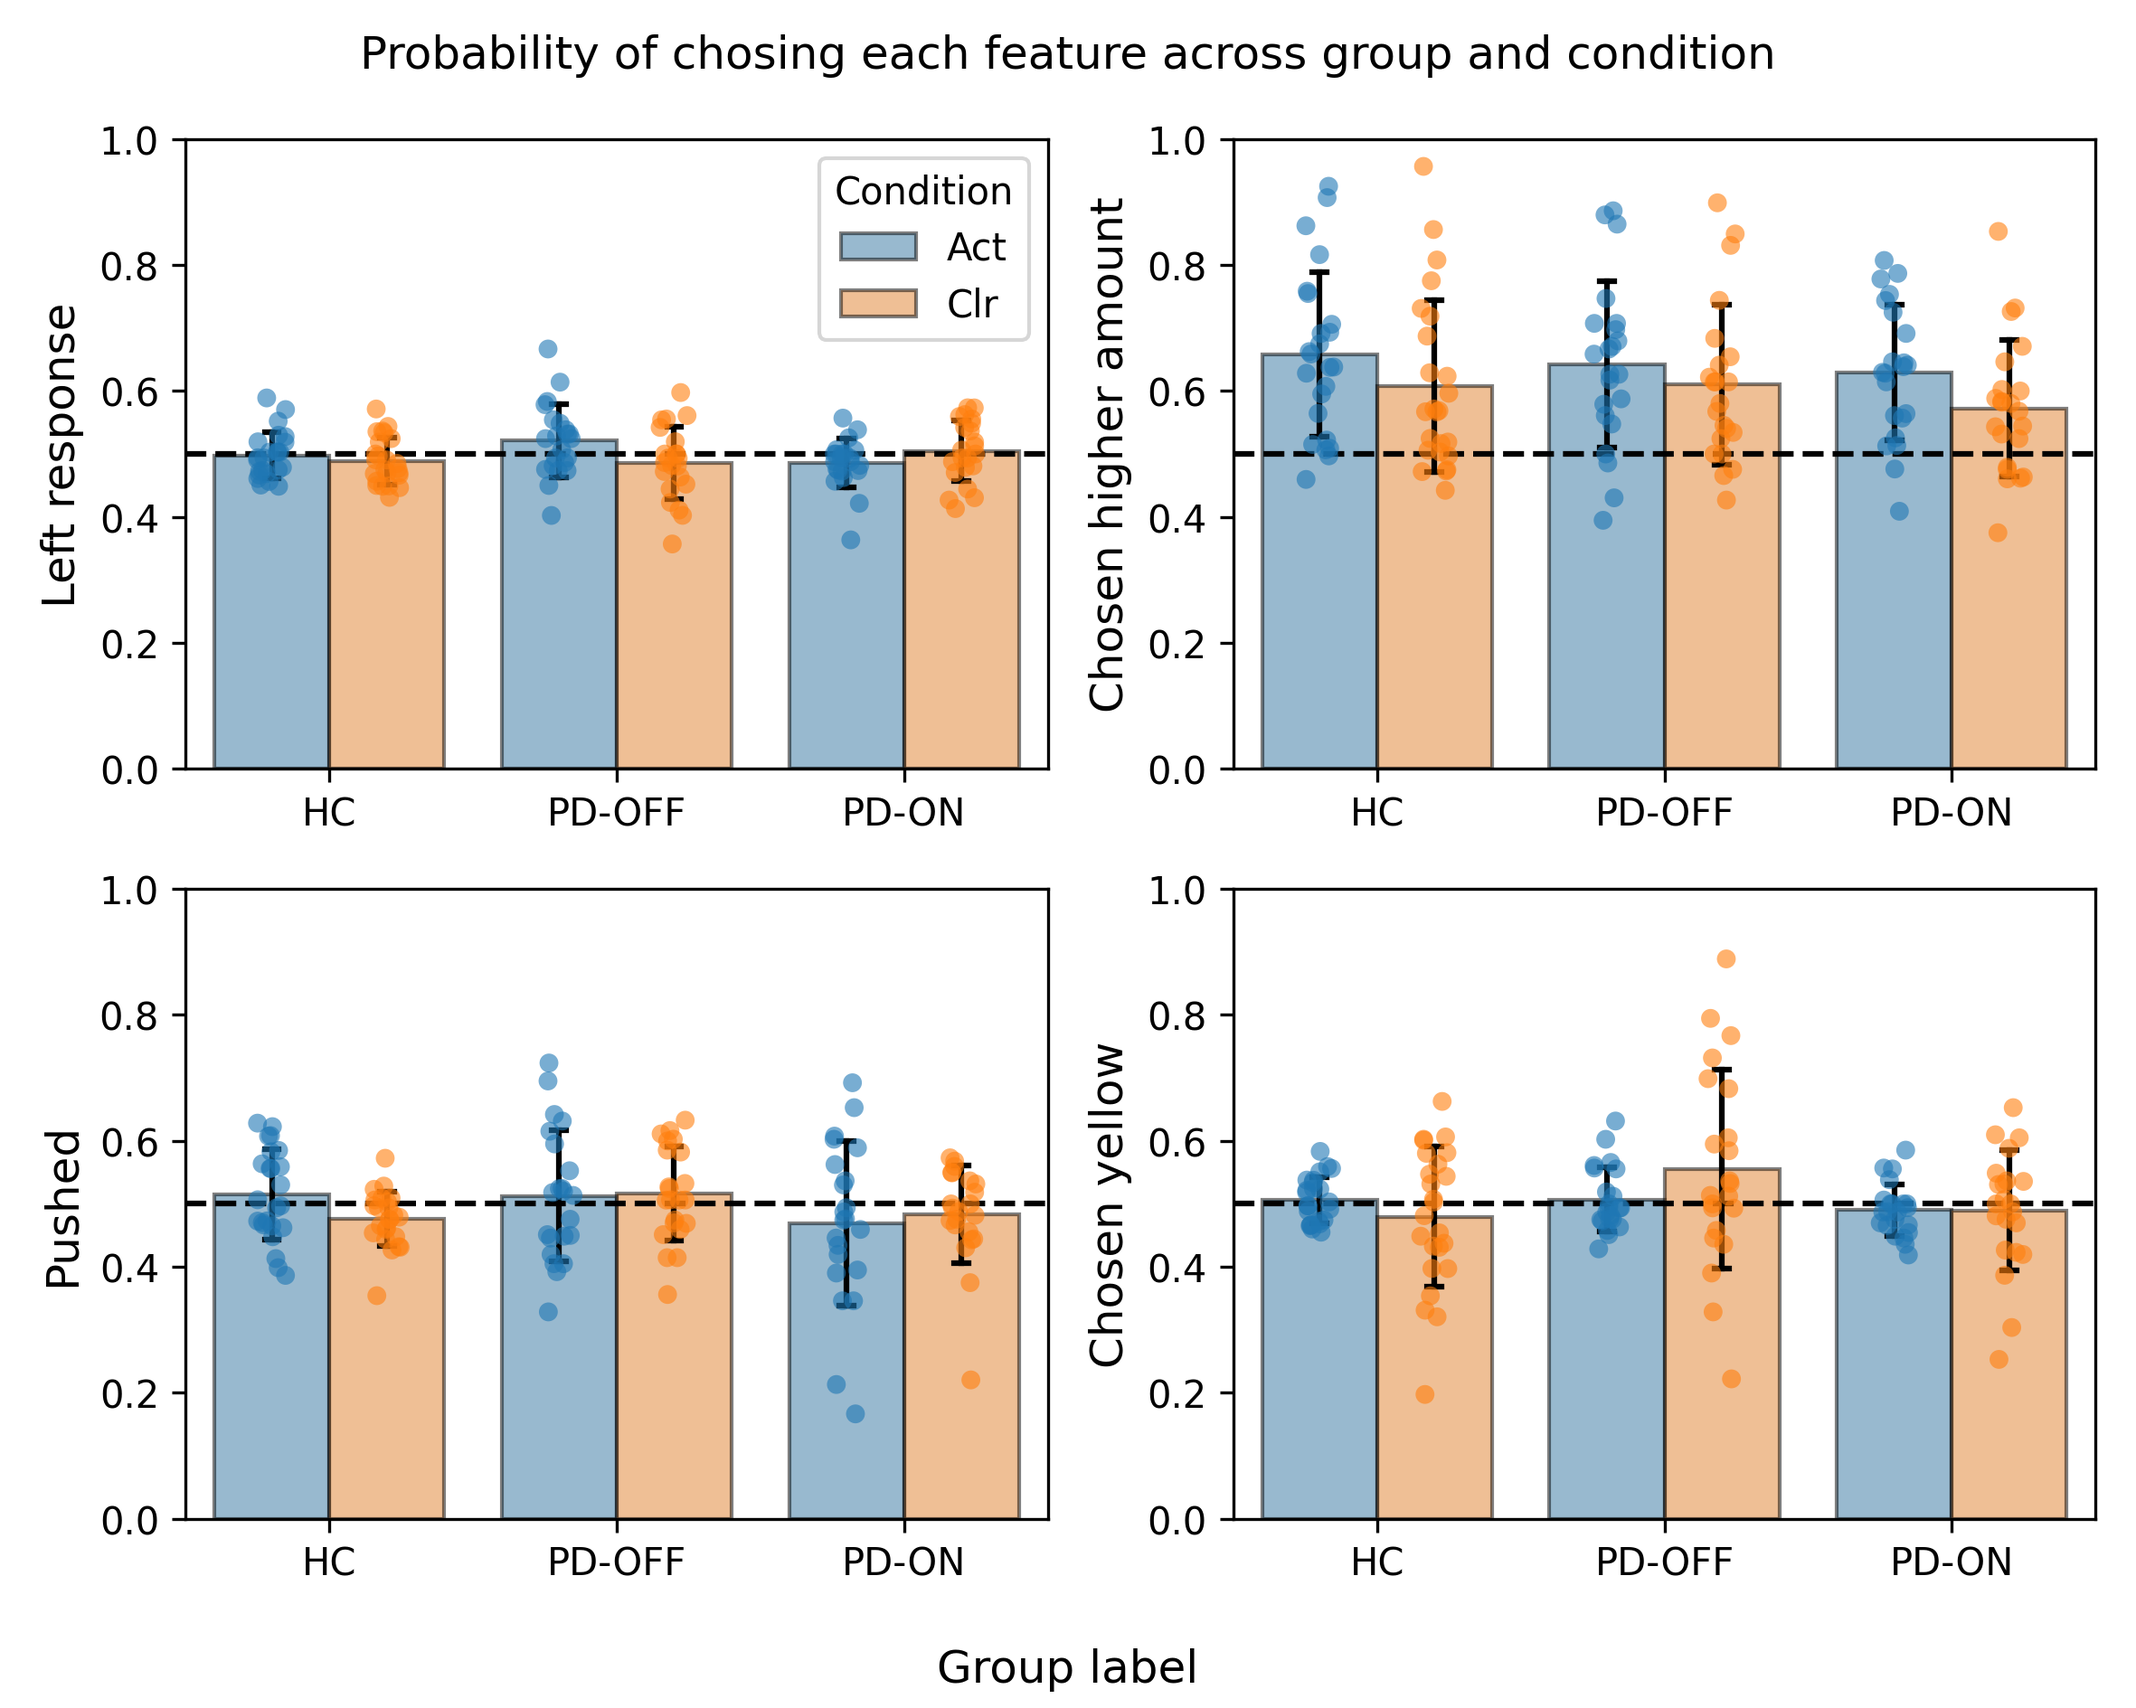
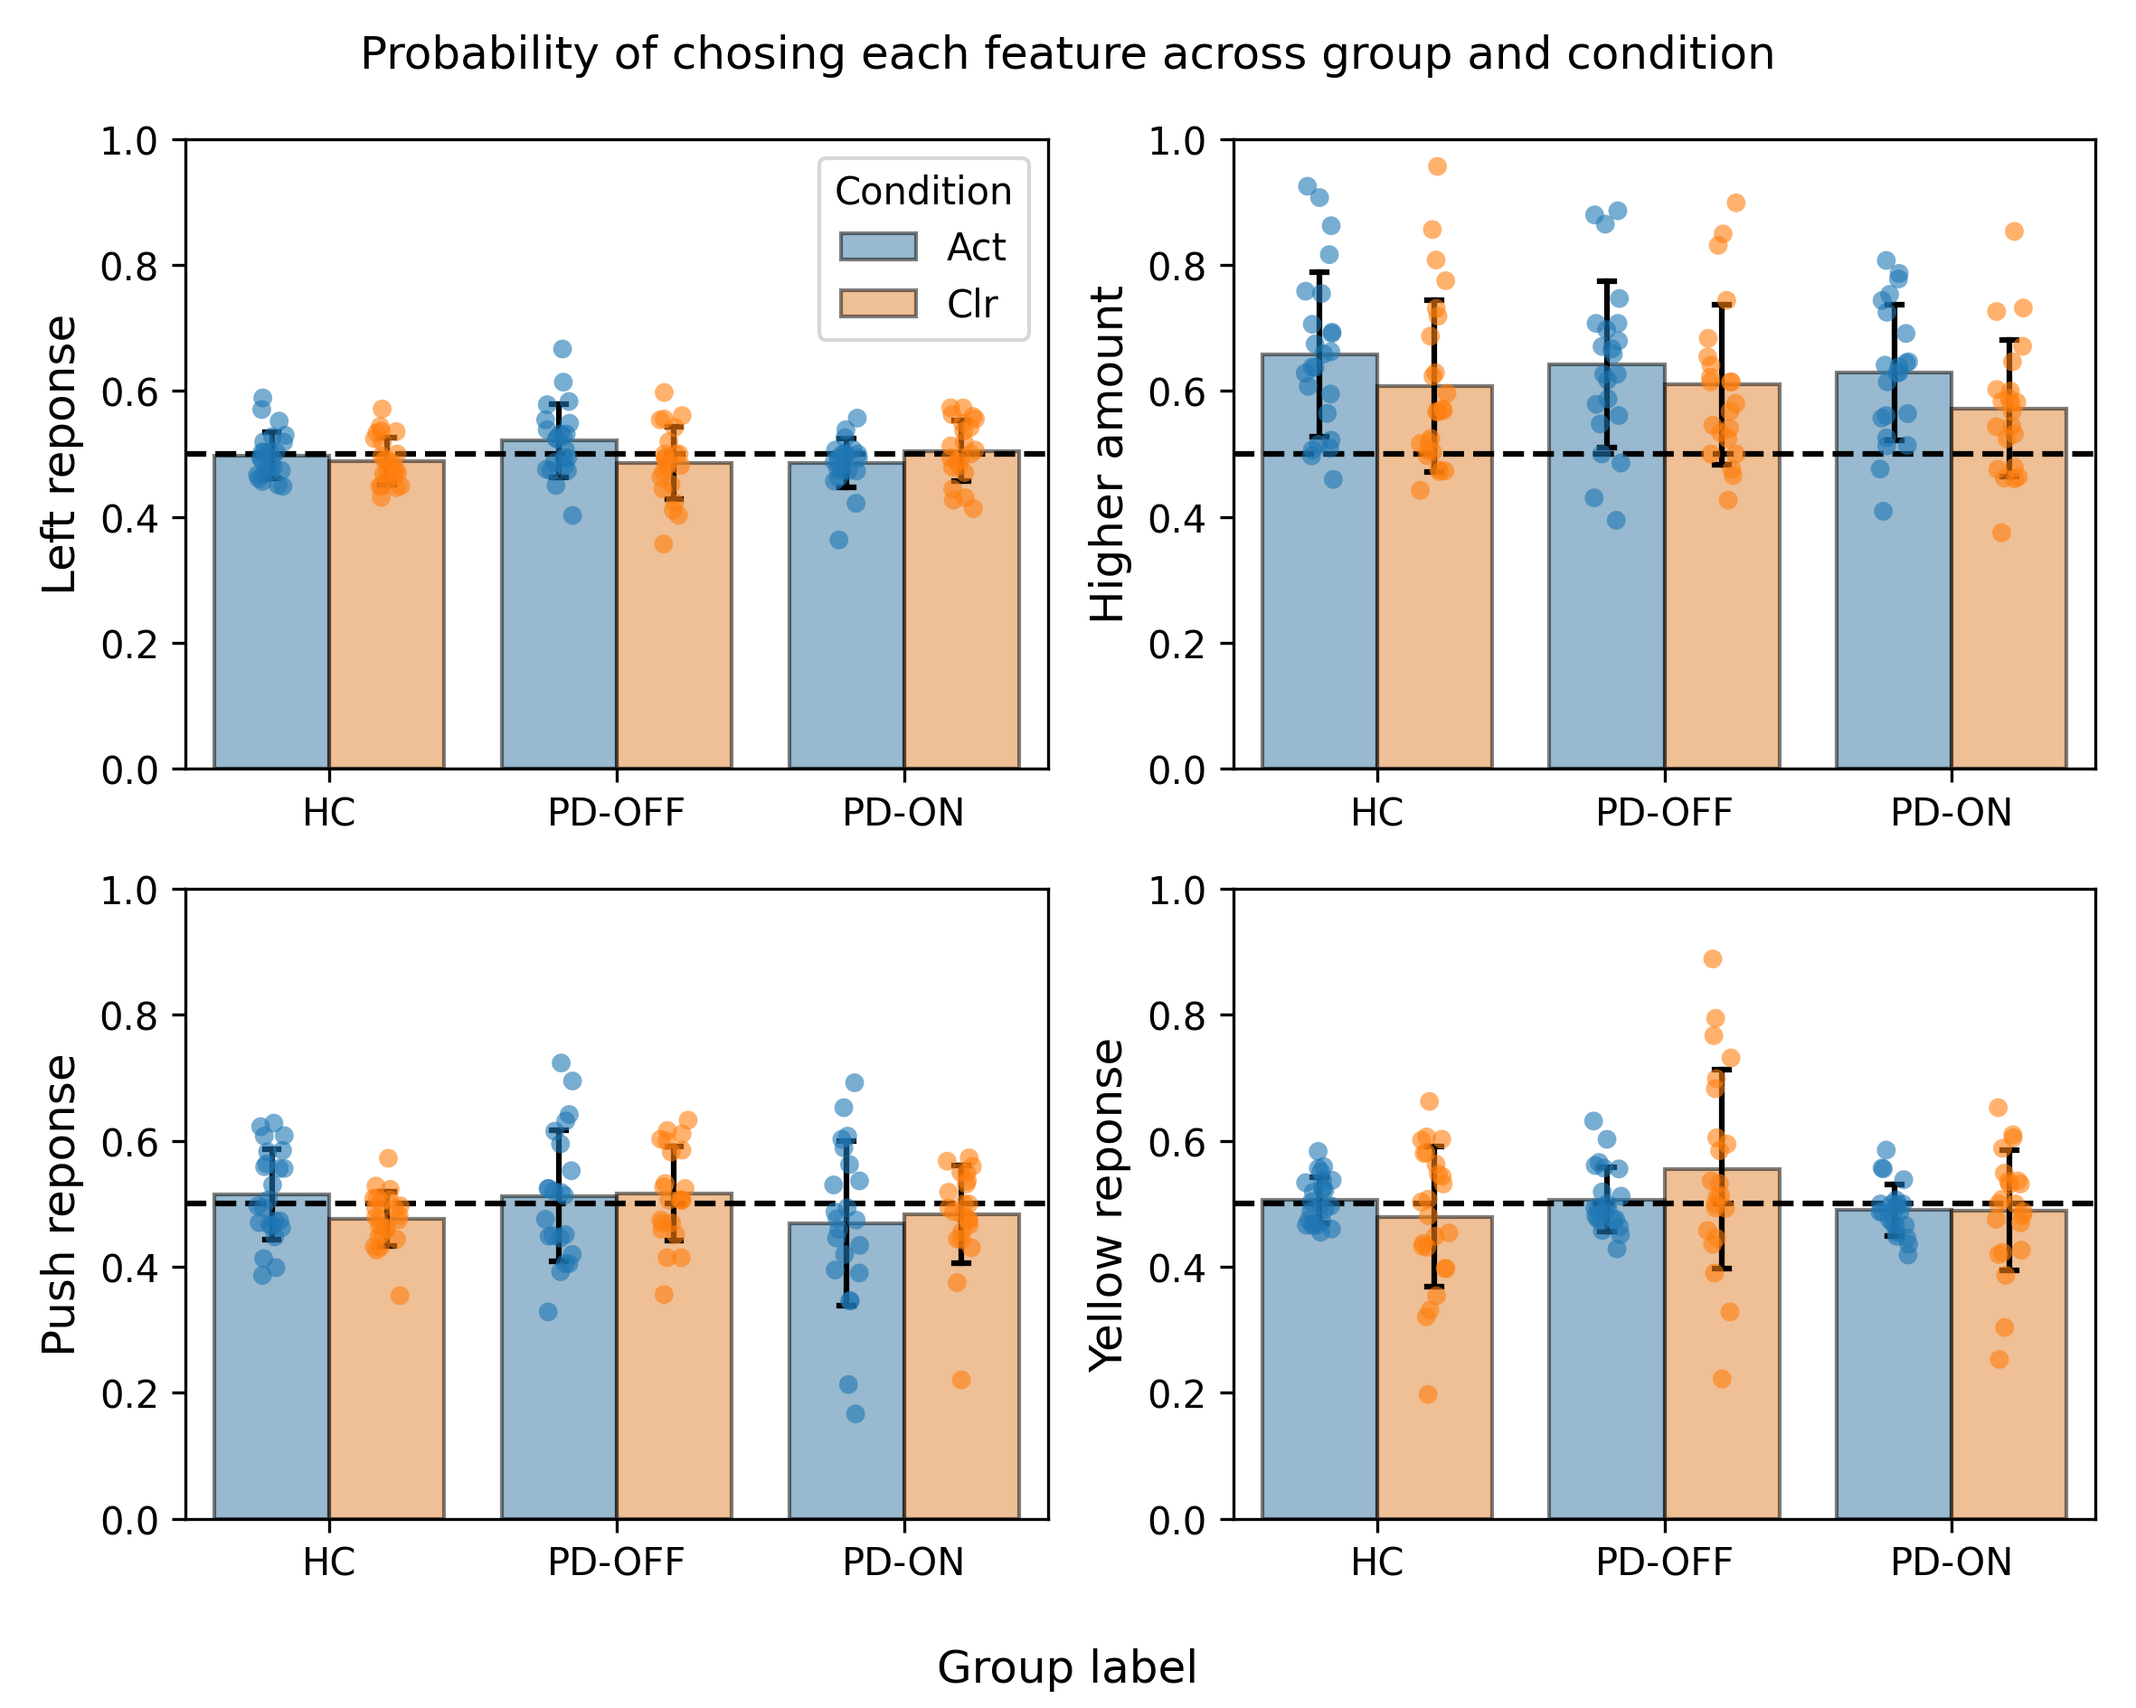
Change some lables

diff --git a/Paper_report/Behavior/rewarded_options_amount.py b/Paper_report/Behavior/rewarded_options_amount.py
@@ -50,7 +50,7 @@ plt.setp(gfg.get_legend().get_texts(), fontsize='8')
 plt.setp(gfg.get_legend().get_title(), fontsize='8')  
 plt.title('')
 plt.xlabel('')
-plt.ylabel('Rewarded left', fontsize='10')
+plt.ylabel('Correct left', fontsize='10')
 plt.axhline(.5, color='black' , linestyle='--')
 plt.ylim(0, .9)
 
@@ -71,7 +71,7 @@ sns.stripplot(
 
 plt.title('')
 plt.xlabel('')
-plt.ylabel('Rewarded push', fontsize='10')
+plt.ylabel('Correct push', fontsize='10')
 plt.axhline(.5, color='black' , linestyle='--')
 plt.ylim(0, .9)
  
@@ -94,7 +94,7 @@ sns.stripplot(
 #plt.text(x=2, y=.51, s='*')
 plt.title('')
 plt.xlabel('')
-plt.ylabel('Rewarded yellow', fontsize='10')
+plt.ylabel('Correct yellow', fontsize='10')
 plt.axhline(.5, color='black' , linestyle='--')
 plt.ylim(0, .9)
 
@@ -140,7 +140,7 @@ sns.stripplot(
 
 plt.title('')
 plt.xlabel('', fontsize='10')
-plt.ylabel('Chosen left', fontsize='10')
+plt.ylabel('Left reponse', fontsize='10')
 plt.axhline(.5, color='black' , linestyle='--')
 plt.ylim(0, .9)
 
@@ -160,7 +160,7 @@ sns.stripplot(
 )
 plt.title('')
 plt.xlabel('', fontsize='10')
-plt.ylabel('Chosen push', fontsize='10')
+plt.ylabel('Push reponse', fontsize='10')
 plt.axhline(.5, color='black' , linestyle='--')
 plt.ylim(0, .9)
  
@@ -180,7 +180,7 @@ sns.stripplot(
 )
 plt.title('')
 plt.xlabel('', fontsize='10')
-plt.ylabel('Chosen yellow', fontsize='10')
+plt.ylabel('Yellow reponse', fontsize='10')
 plt.axhline(.5, color='black' , linestyle='--')
 plt.ylim(0, .9)
 
@@ -189,5 +189,5 @@ fig.supxlabel('Group label')
 fig.suptitle('Exsisting bias for each feature across group and condition', fontsize='12')
 
 # save figure
-plt.savefig('Figures/rewarded_options_bias_task.png', dpi=300)
+plt.savefig('../Figures/rewarded_options_bias_task.png', dpi=300)
 plt.show()

diff --git a/Paper_report/Behavior/feature_bias_participants.py b/Paper_report/Behavior/feature_bias_participants.py
@@ -66,7 +66,7 @@ sns.stripplot(
 )
 plt.title('')
 plt.xlabel('')
-plt.ylabel('Left response', fontsize='12')
+plt.ylabel('Left reponse', fontsize='12')
 plt.axhline(.5, color='black' , linestyle='--')  
 plt.ylim(0, 1)
 
@@ -89,7 +89,7 @@ sns.stripplot(
 
 plt.title('')
 plt.xlabel('')
-plt.ylabel('Chosen higher amount', fontsize='12')
+plt.ylabel('Higher amount', fontsize='12')
 plt.axhline(.5, color='black' , linestyle='--')
 #plt.text(x=0, y=1, s='***')
 #plt.text(x=1, y=1, s='***')
@@ -114,7 +114,7 @@ sns.stripplot(
 
 plt.title('')
 plt.xlabel('')
-plt.ylabel('Pushed', fontsize='12')
+plt.ylabel('Push reponse', fontsize='12')
 plt.axhline(.5, color='black' , linestyle='--')
 plt.ylim(0, 1)
 
@@ -136,7 +136,7 @@ sns.stripplot(
 )
 plt.title('')
 plt.xlabel('')
-plt.ylabel('Chosen yellow', fontsize='12')
+plt.ylabel('Yellow reponse', fontsize='12')
 plt.axhline(.5, color='black' , linestyle='--')
 plt.ylim(0, 1)
 
@@ -144,7 +144,7 @@ fig.supxlabel('Group label')
 fig.suptitle('Probability of chosing each feature across group and condition', fontsize='12')
 
 # save figure
-plt.savefig('Figures/feature_bias_participants.png', dpi=300)
+plt.savefig('../Figures/feature_bias_participants.png', dpi=300)
 
 
 plt.close()
